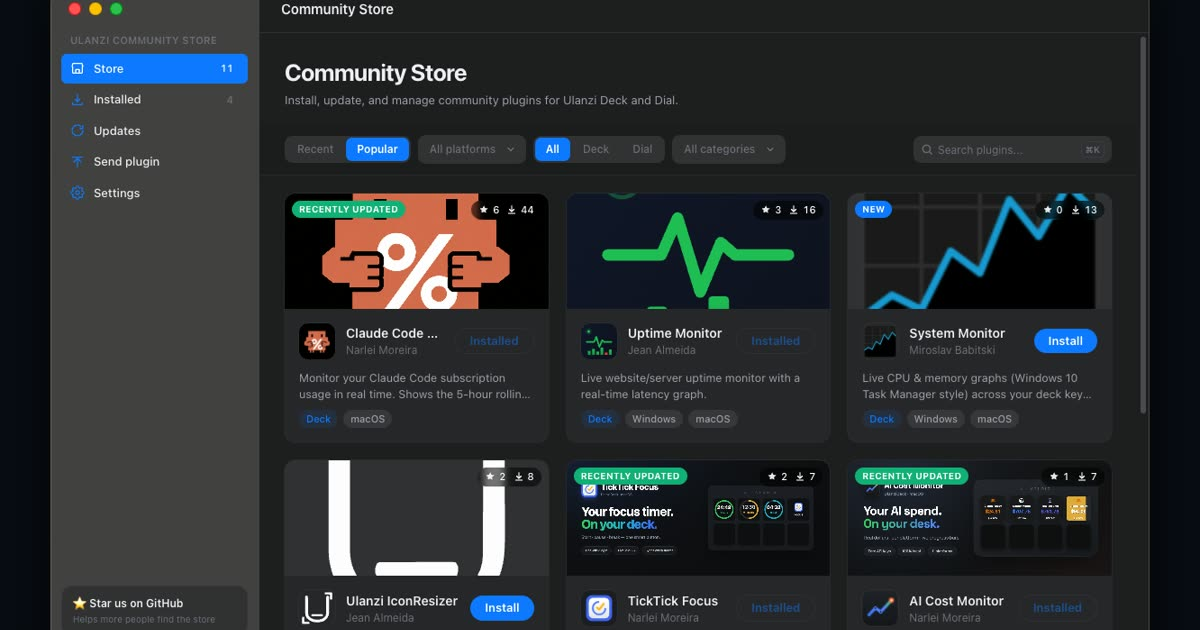
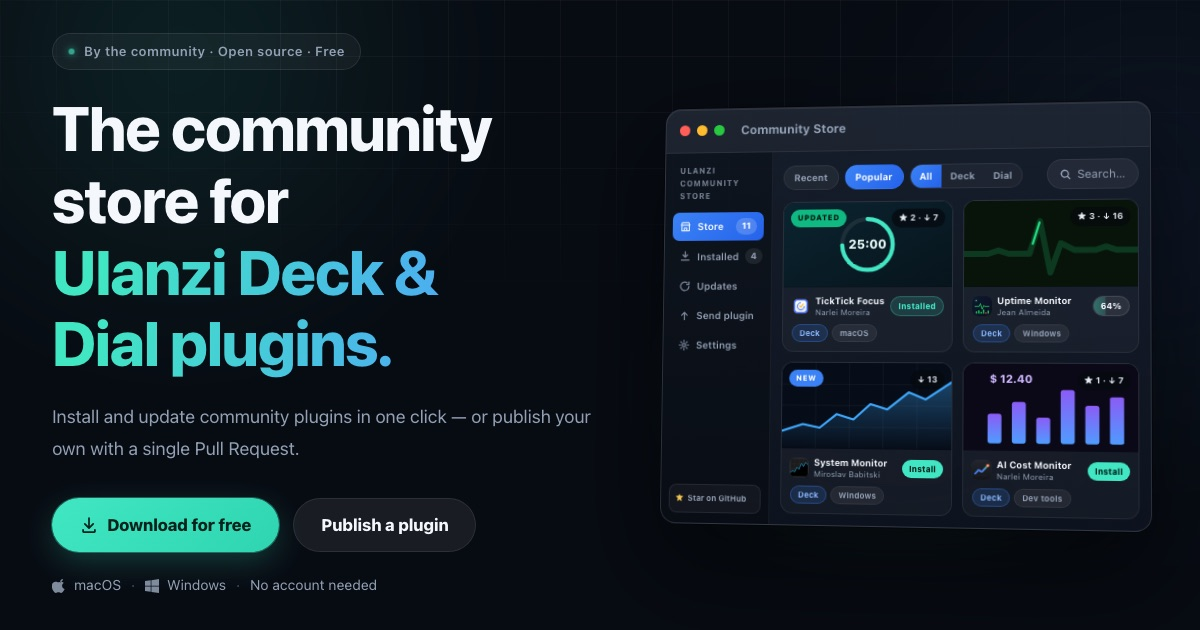
Update CI & Site

diff --git a/apps/marketing-site/index.html b/apps/marketing-site/index.html
@@ -14,13 +14,13 @@
     <meta property="og:type" content="website">
     <meta property="og:title" content="Ulanzi Community Store">
     <meta property="og:description" content="The open-source community store for Ulanzi Deck &amp; Dial plugins — publish in minutes, install in one click, update automatically. macOS and Windows.">
-    <meta property="og:image" content="https://ulanzicommunitystore.narlei.com/assets/og-cover.jpg">
+    <meta property="og:image" content="https://ulanzicommunitystore.narlei.com/assets/og-cover.jpg?v=20260714">
     <meta property="og:image:width" content="1200">
     <meta property="og:image:height" content="630">
     <meta name="twitter:card" content="summary_large_image">
     <meta name="twitter:title" content="Ulanzi Community Store">
     <meta name="twitter:description" content="The open-source community store for Ulanzi Deck &amp; Dial plugins — publish in minutes, install in one click, update automatically. macOS and Windows.">
-    <meta name="twitter:image" content="https://ulanzicommunitystore.narlei.com/assets/og-cover.jpg">
+    <meta name="twitter:image" content="https://ulanzicommunitystore.narlei.com/assets/og-cover.jpg?v=20260714">
 
     <link rel="alternate" hreflang="en" href="https://ulanzicommunitystore.narlei.com/">
     <link rel="alternate" hreflang="pt-BR" href="https://ulanzicommunitystore.narlei.com/">